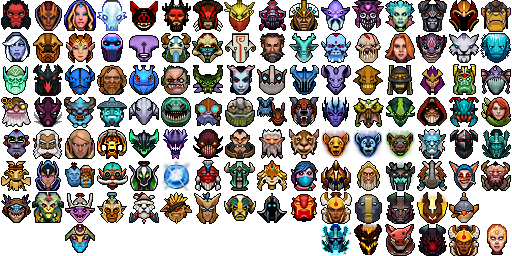
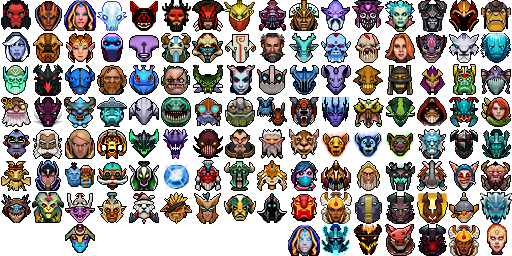
added cm arcana and wyvern

diff --git a/assets/stylesheets/dota2minimapheroes.css b/assets/stylesheets/dota2minimapheroes.css
@@ -454,6 +454,10 @@
     background-position: -64px -224px;
 }
 
+.d2mh.winter_wyvern, .d2mh.npc_dota_hero_winter_wyvern, .d2mh.hero-112 { 
+    background-position: -480px -192px;
+}
+
 .d2mh.lina_alt1, .d2mh.npc_dota_hero_lina_alt1 { 
     background-position: -480px -224px;
 }
@@ -476,4 +480,8 @@
 
 .d2mh.phantom_assassin_alt1, .d2mh.npc_dota_hero_phantom_assassin_alt1 { 
     background-position: -320px -224px;
+}
+
+.d2mh.crystal_maiden_alt1, .d2mh.npc_dota_hero_crystal_maiden_alt1 { 
+    background-position: -288px -224px;
 }
